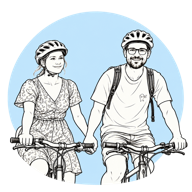
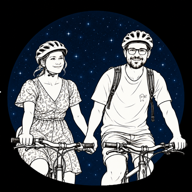
Extend starry background across mobile viewport

diff --git a/developer-test/index.html b/developer-test/index.html
@@ -6,8 +6,8 @@
     <meta name="theme-color" content="#245b7c" />
     <title>Pia & Paul · Adventskalender-Test</title>
     <meta name="description" content="Getrennte Testumgebung für den Adventskalender von Pia und Paul." />
-    <link rel="icon" href="../pia-und-paul-github/icon-pia-paul-192.png" type="image/png" sizes="192x192" />
-    <link rel="apple-touch-icon" href="../pia-und-paul-github/icon-pia-paul-512.png" />
+    <link rel="icon" href="../pia-und-paul-github/icon-pia-paul-192.png?v=2" type="image/png" sizes="192x192" />
+    <link rel="apple-touch-icon" href="../pia-und-paul-github/icon-pia-paul-512.png?v=2" />
     <link rel="manifest" href="manifest.webmanifest" />
     <link rel="stylesheet" href="https://unpkg.com/leaflet@1.9.4/dist/leaflet.css" crossorigin="" />
     <link rel="stylesheet" href="../pia-und-paul-github/styles.css" />
@@ -18,11 +18,11 @@
     <link rel="stylesheet" href="../pia-und-paul-github/alpine-sky.css" />
     <link rel="stylesheet" href="../pia-und-paul-github/door-refinement.css?v=2" />
     <link rel="stylesheet" href="../pia-und-paul-github/mobile-calendar.css?v=1" />
-    <link rel="stylesheet" href="../pia-und-paul-github/calm-alpine.css?v=28" />
+    <link rel="stylesheet" href="../pia-und-paul-github/calm-alpine.css?v=29" />
     <style>.developer-panel{width:min(100%,73rem);margin:-1rem auto 2rem;padding:1rem 1.15rem;border:1px dashed #c9934f;border-radius:.85rem;background:#fff5da}.developer-panel .eyebrow{margin-bottom:.35rem;color:#8a5b15}.developer-panel form{display:grid;gap:.35rem}.developer-panel label{margin:0}.test-day-controls{display:flex;gap:.6rem;align-items:center}.test-day-controls select{flex:1;min-width:0;padding:.58rem .65rem;border:1px solid #dfbd7b;border-radius:.55rem;color:var(--ink);background:#fffaf5}.test-day-controls .quiet-button{padding:.6rem .7rem;border-radius:.55rem;color:#6d4411;background:#f2d497;font-weight:700;white-space:nowrap}.developer-panel>p:last-child{margin:.65rem 0 0;color:#765e6b;font-family:Arial,sans-serif;font-size:.78rem}@media(max-width:390px){.test-day-controls{align-items:stretch;flex-direction:column}}</style>
     <script src="config.js"></script>
     <script defer src="https://unpkg.com/leaflet@1.9.4/dist/leaflet.js"></script>
-    <script defer src="../pia-und-paul-github/app.js?v=20261006-51"></script>
+    <script defer src="../pia-und-paul-github/app.js?v=20261006-52"></script>
   </head>
   <body><main id="app" class="loading">Test-Adventskalender wird vorbereitet …</main></body>
 </html>

diff --git a/pia-und-paul-github/calm-alpine.css b/pia-und-paul-github/calm-alpine.css
@@ -156,18 +156,6 @@ body,
 .door.workshop-door.complete { opacity: .92; }
 .door.calendar-door.missing,
 .door.workshop-door.overdue { filter: saturate(.86); opacity: .84; }
-.door.workshop-door.special {
-  border-color: #b8c8cf;
-  background: linear-gradient(180deg, #dce8ec 0%, #9fb7c1 100%);
-  filter: saturate(.38);
-  opacity: .72;
-}
-.door.workshop-door.special.active {
-  border-color: #8caab6 !important;
-  background: linear-gradient(180deg, #d4e4e9 0%, #98b2bd 100%) !important;
-  box-shadow: 0 0 0 2px #d7e5e9 !important;
-  opacity: .84;
-}
 .door.workshop-door.today { border-color: #245b7c; }
 .door.workshop-door.upcoming,
 .door.locked { background: linear-gradient(180deg, #dceff5 0%, #9bc5d6 100%); }
@@ -522,6 +510,16 @@ body,
     overscroll-behavior: none;
   }
   body:has(.app-shell) {
+    background: #061523;
+  }
+  /* Der feste Untergrund liegt bewusst auf dem Body: Er reicht damit auch
+     in die seitlichen Safe-Area-Ränder einer installierten iPhone-Web-App. */
+  body:has(.app-shell)::before {
+    position: fixed;
+    z-index: 0;
+    inset: 0;
+    display: block;
+    content: "";
     background-image:
       linear-gradient(180deg, #03102166 0%, #061523a6 100%),
       url("https://images.unsplash.com/photo-1593959734793-6e92d102da1e?auto=format&fit=crop&w=2400&q=85");
@@ -529,12 +527,16 @@ body,
     background-repeat: no-repeat;
     background-size: cover;
   }
+  #app:has(.app-shell) {
+    position: relative;
+    z-index: 1;
+  }
   .app-shell.calendar-shell,
   .workshop-shell {
     min-height: 100dvh;
     height: 100dvh;
     padding-bottom: max(.8rem, env(safe-area-inset-bottom));
-    background-attachment: scroll;
+    background: transparent;
   }
   .calendar-shell .topbar,
   .workshop-shell .topbar { padding-top: max(.85rem, calc(env(safe-area-inset-top) + .4rem)); }

diff --git a/pia-und-paul-github/index.html b/pia-und-paul-github/index.html
@@ -6,8 +6,8 @@
     <meta name="theme-color" content="#245b7c" />
     <title>Pia & Paul · Adventskalender</title>
     <meta name="description" content="24 kleine Fragen für Pia und Paul." />
-    <link rel="icon" href="icon-pia-paul-192.png" type="image/png" sizes="192x192" />
-    <link rel="apple-touch-icon" href="icon-pia-paul-512.png" />
+    <link rel="icon" href="icon-pia-paul-192.png?v=2" type="image/png" sizes="192x192" />
+    <link rel="apple-touch-icon" href="icon-pia-paul-512.png?v=2" />
     <link rel="manifest" href="manifest.webmanifest" />
     <link rel="stylesheet" href="https://unpkg.com/leaflet@1.9.4/dist/leaflet.css" crossorigin="" />
     <link rel="stylesheet" href="styles.css" />
@@ -18,10 +18,10 @@
     <link rel="stylesheet" href="alpine-sky.css" />
     <link rel="stylesheet" href="door-refinement.css?v=2" />
     <link rel="stylesheet" href="mobile-calendar.css?v=1" />
-    <link rel="stylesheet" href="calm-alpine.css?v=28" />
+    <link rel="stylesheet" href="calm-alpine.css?v=29" />
     <script src="config.js"></script>
     <script defer src="https://unpkg.com/leaflet@1.9.4/dist/leaflet.js"></script>
-    <script defer src="app.js?v=20261006-51"></script>
+    <script defer src="app.js?v=20261006-52"></script>
   </head>
   <body><main id="app" class="loading">Euer Adventskalender wird vorbereitet …</main></body>
 </html>

diff --git a/pia-und-paul-github/app.js b/pia-und-paul-github/app.js
@@ -359,10 +359,11 @@ function renderWorkshop(message = "") {
     const answer = ownAnswers[day];
     const doorPrompt = prompts[session.partner][day - 1];
     const isGiftDoor = doorPrompt.kind === "gift";
-    const isSpecialDoor = isGiftDoor || doorPrompt.kind === "offline";
     const isComplete = Boolean(answer) || (isGiftDoor && giftAcknowledged);
-    const stateClass = isComplete ? "complete" : isSpecialDoor ? "special" : day < today ? "overdue" : day === today ? "today" : "upcoming";
-    const marker = isComplete ? "✓" : day < today && !isSpecialDoor ? "!" : day === today && !isSpecialDoor ? "•" : "";
+    // Auch das flüsternde Türchen und die Überraschung folgen farblich exakt
+    // den normalen Werkstatt-Zuständen; sie bekommen keine Sonderfarbe.
+    const stateClass = isComplete ? "complete" : day < today ? "overdue" : day === today ? "today" : "upcoming";
+    const marker = isComplete ? "✓" : day < today ? "!" : day === today ? "•" : "";
     return `<button class="door workshop-door ${stateClass} ${selectedWorkshopDay === day ? "active" : ""}" data-workshop-day="${day}">${mountain(day)}<span>${day}</span><b aria-hidden="true">${marker}</b></button>`;
   }).join("");
   const prompt = prompts[session.partner][selectedWorkshopDay - 1];
